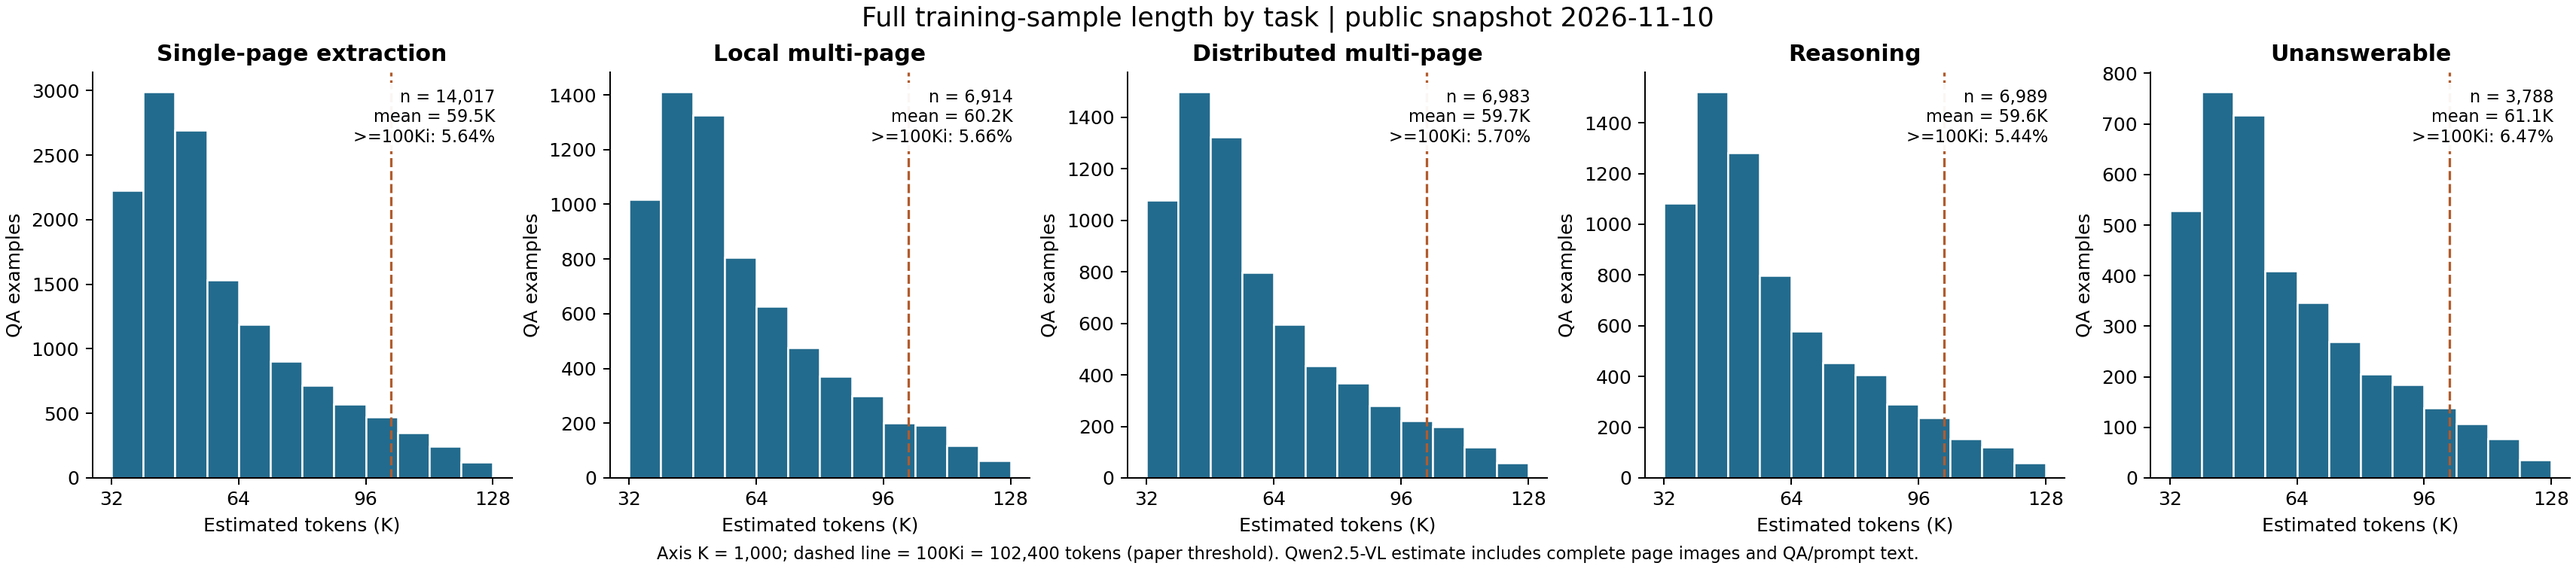
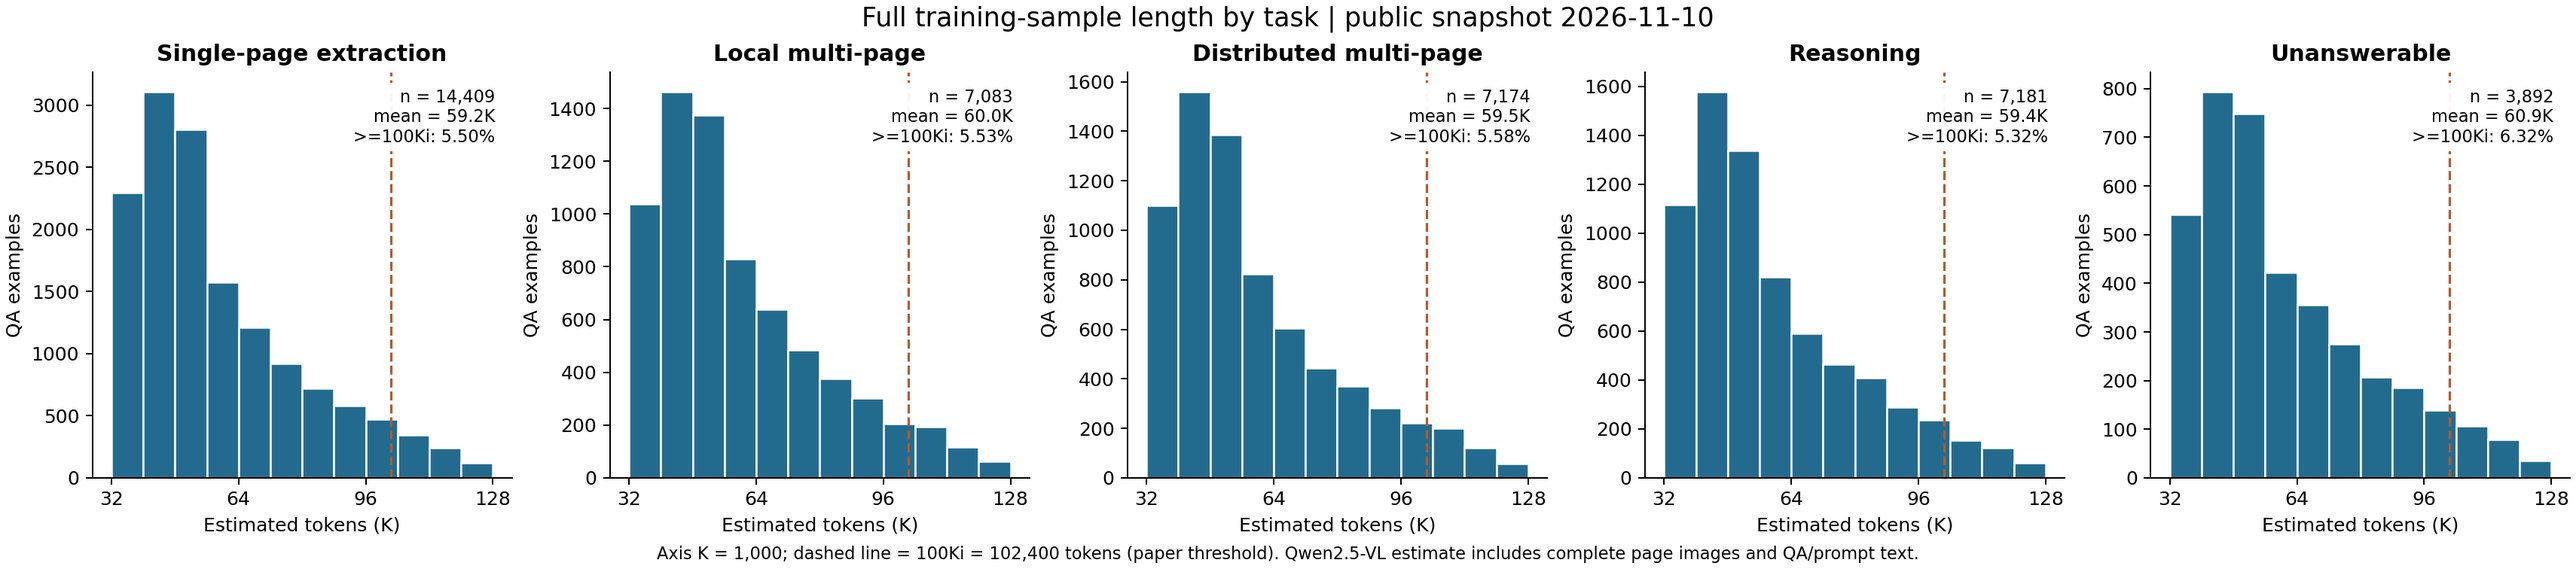
Update public corpus statistics to 2.369B measured tokens

diff --git a/docs/public_dataset.md b/docs/public_dataset.md
@@ -13,26 +13,26 @@ This page describes the admitted public snapshot identified below. It is a separ
 The manuscript defines binary prefixes (K=1024, B=2^30). Public tables use decimal K=1,000 and B=1,000,000,000; the >=100Ki statistic uses 102,400 to match the paper threshold. Exact raw counts and per-document labels are published with the dataset.
 
 <!-- PUBLIC_CORPUS_STATS_START -->
-**Public snapshot (2026-11-10): 38,691 QA examples, 7,947 source PDFs, 179,704 unique page images, and 2,314,394,982 estimated training tokens (approximately 2.314B).**
+**Public snapshot (2026-11-10): 39,739 QA examples, 8,538 source PDFs, 191,774 unique page images, and 2,368,519,161 estimated training tokens (approximately 2.369B).**
 
-[This published snapshot](https://huggingface.co/datasets/ZhaoweiWang/MMProLong-Data-Public/tree/c6a7a67b297ee03f2ec6dccee61d0159f85288e6); [latest data](https://huggingface.co/datasets/ZhaoweiWang/MMProLong-Data-Public).
+[This published snapshot](https://huggingface.co/datasets/ZhaoweiWang/MMProLong-Data-Public/tree/18ed85259ec8c1d27de0298e0e1f19c595549c0e); [latest data](https://huggingface.co/datasets/ZhaoweiWang/MMProLong-Data-Public).
 
 ### Corpus scale
 
 | Statistic | Public snapshot value |
 | --- | --- |
-| Admitted unique PDFs | 7,947 |
+| Admitted unique PDFs | 8,538 |
 | Document family | Public research papers |
-| Unique rendered page images | 179,704 |
-| Document pages: mean / median | 22.61 / 20 |
-| Document pages: range / 5th-95th percentile | 14-50 / 14-39 |
-| Admitted QA examples | 38,691 |
-| Estimated training tokens | 2,314,394,982 (2.314B) |
-| Per-QA tokens: mean / median | 59.817K / 53.283K |
+| Unique rendered page images | 191,774 |
+| Document pages: mean / median | 22.46 / 20 |
+| Document pages: range / 5th-95th percentile | 14-50 / 14-38 |
+| Admitted QA examples | 39,739 |
+| Estimated training tokens | 2,368,519,161 (2.369B) |
+| Per-QA tokens: mean / median | 59.602K / 53.273K |
 | Observed token range | 33,547-125,503 |
-| At least 100,000 tokens | 2,624 (6.78%) |
-| At least 100Ki = 102,400 tokens (paper threshold) | 2,204 (5.70%) |
-| Page references across all QA contexts | 911,047 |
+| At least 100,000 tokens | 2,633 (6.63%) |
+| At least 100Ki = 102,400 tokens (paper threshold) | 2,212 (5.57%) |
+| Page references across all QA contexts | 932,381 |
 
 ### Document sources
 
@@ -40,7 +40,7 @@ The manuscript defines binary prefixes (K=1024, B=2^30). Public tables use decim
 | --- | --- |
 | arxiv | 4,386 |
 | elife | 20 |
-| plos | 3,541 |
+| plos | 4,132 |
 
 Tokens are the stored Qwen2.5-VL serialized-sample estimate, including full page-image context and QA/prompt text. A PDF used by several questions contributes its context repeatedly to the training-token total. This is not a count of unique-text tokens or billed API tokens. Page images are physically stored once per document.
 
@@ -50,12 +50,12 @@ Tokens are the stored Qwen2.5-VL serialized-sample estimate, including full page
 
 | Task | QA | Avg. pages | Avg. K tokens | B tokens | Pages | K-token range | >=100Ki |
 | --- | --- | --- | --- | --- | --- | --- | --- |
-| `single` | 14,017 | 23.41 | 59.45 | 0.833 | 14-50 | 33.80-125.13 | 5.64% |
-| `multi_local` | 6,914 | 23.67 | 60.19 | 0.416 | 14-50 | 33.85-125.50 | 5.66% |
-| `multi_distributed` | 6,983 | 23.48 | 59.68 | 0.417 | 14-50 | 33.84-125.29 | 5.70% |
-| `reasoning` | 6,989 | 23.48 | 59.61 | 0.417 | 14-50 | 33.55-125.11 | 5.44% |
-| `unanswerable` | 3,788 | 24.07 | 61.12 | 0.232 | 14-50 | 33.79-125.09 | 6.47% |
-| **Total** | 38,691 | 23.55 | 59.82 | 2.314 | 14-50 | 33.55-125.50 | 5.70% |
+| `single` | 14,409 | 23.32 | 59.21 | 0.853 | 14-50 | 33.80-125.13 | 5.50% |
+| `multi_local` | 7,083 | 23.60 | 60.03 | 0.425 | 14-50 | 33.85-125.50 | 5.53% |
+| `multi_distributed` | 7,174 | 23.40 | 59.47 | 0.427 | 14-50 | 33.84-125.29 | 5.58% |
+| `reasoning` | 7,181 | 23.39 | 59.39 | 0.427 | 14-50 | 33.55-125.11 | 5.32% |
+| `unanswerable` | 3,892 | 23.98 | 60.88 | 0.237 | 14-50 | 33.79-125.09 | 6.32% |
+| **Total** | 39,739 | 23.46 | 59.60 | 2.369 | 14-50 | 33.55-125.50 | 5.57% |
 
 `K = 1,000`, `B = 1,000,000,000`; `100Ki = 102,400` tokens. Average pages in this table are **QA-weighted**, whereas the corpus-scale document average counts each PDF once. The two multi-page rows may be combined for comparison with the paper's broader extraction category. Unanswerable QA is an additional public-data task. Exact values, quantiles, and the combined task grouping are in [`metadata/statistics.json`](https://huggingface.co/datasets/ZhaoweiWang/MMProLong-Data-Public/blob/main/metadata/statistics.json).
 
@@ -65,16 +65,16 @@ Tokens are the stored Qwen2.5-VL serialized-sample estimate, including full page
 
 | Primary domain | Documents | Document share | QA | QA share |
 | --- | --- | --- | --- | --- |
-| Physics | 1,323 | 16.65% | 9,286 | 24.00% |
-| Computer Science | 1,250 | 15.73% | 9,159 | 23.67% |
-| Mathematics | 1,236 | 15.55% | 8,825 | 22.81% |
-| Biology | 837 | 10.53% | 1,668 | 4.31% |
-| Medicine | 773 | 9.73% | 1,769 | 4.57% |
-| Economics | 716 | 9.01% | 1,797 | 4.64% |
-| Social Science | 706 | 8.88% | 1,770 | 4.57% |
-| Engineering | 696 | 8.76% | 3,278 | 8.47% |
-| Earth Science | 388 | 4.88% | 1,036 | 2.68% |
-| Language and Literature | 13 | 0.16% | 45 | 0.12% |
+| Physics | 1,325 | 15.52% | 9,290 | 23.38% |
+| Computer Science | 1,269 | 14.86% | 9,189 | 23.12% |
+| Mathematics | 1,239 | 14.51% | 8,830 | 22.22% |
+| Biology | 983 | 11.51% | 1,917 | 4.82% |
+| Medicine | 922 | 10.80% | 2,038 | 5.13% |
+| Social Science | 807 | 9.45% | 1,951 | 4.91% |
+| Economics | 787 | 9.22% | 1,927 | 4.85% |
+| Engineering | 771 | 9.03% | 3,413 | 8.59% |
+| Earth Science | 410 | 4.80% | 1,075 | 2.71% |
+| Language and Literature | 16 | 0.19% | 51 | 0.13% |
 | Other | 9 | 0.11% | 58 | 0.15% |
 
 Document and QA shares differ because historical phases generated different numbers of questions per PDF. Domain labels describe the source PDF, not a separate topic inferred for each question.
@@ -83,21 +83,21 @@ Document and QA shares differ because historical phases generated different numb
 
 | Answer format | QA | Share |
 | --- | --- | --- |
-| Integer | 5,789 | 14.96% |
-| Float | 2,566 | 6.63% |
-| List | 13,302 | 34.38% |
-| String | 13,246 | 34.24% |
-| Unanswerable | 3,788 | 9.79% |
+| Integer | 5,962 | 15.00% |
+| Float | 2,710 | 6.82% |
+| List | 13,722 | 34.53% |
+| String | 13,453 | 33.85% |
+| Unanswerable | 3,892 | 9.79% |
 
-There are **34,903 answerable** and **3,788 unanswerable** QA examples. The observed necessary-evidence page counts are: 0 pages: 3,788, 1 pages: 17,597, 2 pages: 11,714, 3 pages: 4,401, 4 pages: 1,181, 5 pages: 6, 6 pages: 3, 7 pages: 1.
+There are **35,847 answerable** and **3,892 unanswerable** QA examples. The observed necessary-evidence page counts are: 0 pages: 3,892, 1 pages: 18,080, 2 pages: 12,043, 3 pages: 4,492, 4 pages: 1,220, 5 pages: 7, 6 pages: 3, 7 pages: 1, 8 pages: 1.
 
 <details>
 <summary>Observed QA count per source document</summary>
 
 | QA per document | Documents |
 | --- | --- |
-| 1 | 913 |
-| 2 | 4,627 |
+| 1 | 1,047 |
+| 2 | 5,084 |
 | 6 | 1 |
 | 8 | 1 |
 | 9 | 7 |
@@ -115,8 +115,8 @@ The 20-QA documents belong to the initial pilot; the two-QA limit applies to the
 | Recorded method | QA |
 | --- | --- |
 | legacy_full_document | 32,432 |
-| released_prompt_window_v1 | 3,915 |
-| document_tool_agent_v1 | 2,344 |
+| released_prompt_window_v1 | 4,569 |
+| document_tool_agent_v1 | 2,738 |
 
 ### Domain-label provenance
 
@@ -125,18 +125,18 @@ The 20-QA documents belong to the initial pilot; the two-QA limit applies to the
 | majority of full-context generator domain labels | 4,330 |
 | arXiv primary category mapping | 113 |
 | manual primary-topic classification for validated pilot batches | 9 |
-| majority of independent full-document verifier topic labels | 3,408 |
-| Crossref subject-query sampling; provisional until generator topic vote | 87 |
+| majority of independent full-document verifier topic labels | 3,994 |
+| Crossref subject-query sampling; provisional until generator topic vote | 92 |
 
 ## Document language
 
 | Estimated document language | Documents | Document share | Associated QA |
 | --- | --- | --- | --- |
-| English (`en`) | 7,942 | 99.937% | 38,651 |
-| Spanish (`es`) | 2 | 0.025% | 14 |
-| French (`fr`) | 1 | 0.013% | 2 |
-| Russian (`ru`) | 1 | 0.013% | 12 |
-| Chinese (`zh`) | 1 | 0.013% | 12 |
+| English (`en`) | 8,533 | 99.941% | 39,699 |
+| Spanish (`es`) | 2 | 0.023% | 14 |
+| French (`fr`) | 1 | 0.012% | 2 |
+| Russian (`ru`) | 1 | 0.012% | 12 |
+| Chinese (`zh`) | 1 | 0.012% | 12 |
 
 Language labels are automatic estimates from sampled embedded PDF text; non-English/uncertain predictions receive a prose-filter recheck. They are not human-verified. Method, sampled pages, scores and recheck provenance are retained with each document.
 
@@ -144,14 +144,14 @@ Language labels are automatic estimates from sampled embedded PDF text; non-Engl
 
 | Recorded generation model | Documents | QA | QA share | B training tokens |
 | --- | --- | --- | --- | --- |
-| `gpt-5.5-2026-04-24` | 2,407 | 28,524 | 73.72% | 1.745 |
-| `gpt-5.6-sol` | 5,540 | 10,167 | 26.28% | 0.570 |
+| `gpt-5.5-2026-04-24` | 2,407 | 28,524 | 71.78% | 1.745 |
+| `gpt-5.6-sol` | 6,131 | 11,215 | 28.22% | 0.624 |
 
 | Phase | Documents | QA | Maximum QA per document |
 | --- | --- | --- | --- |
 | Initial pilot (GPT-5.5) | 4 | 80 | 20 |
 | GPT-5.5 production | 2,403 | 28,444 | 12 |
-| Current GPT-5.6 production | 5,540 | 10,167 | 2 |
+| Current GPT-5.6 production | 6,131 | 11,215 | 2 |
 
 The current snapshot is a **mixed-model historical release**, not an all-GPT-5.6 corpus. Use the `model` field when a model-specific subset is required.
 

diff --git a/README.md b/README.md
@@ -40,7 +40,7 @@ Please check out the [paper](https://arxiv.org/abs/2605.13831) for the study and
 ## 📢 Latest Updates
 
 <!-- PUBLIC_CORPUS_SUMMARY_START -->
-**Public snapshot (2026-11-10): 38,691 QA examples, 7,947 source PDFs, 179,704 unique page images, and 2,314,394,982 estimated training tokens (approximately 2.314B).**
+**Public snapshot (2026-11-10): 39,739 QA examples, 8,538 source PDFs, 191,774 unique page images, and 2,368,519,161 estimated training tokens (approximately 2.369B).**
 
 [Dataset](https://huggingface.co/datasets/ZhaoweiWang/MMProLong-Data-Public) | [Statistics](docs/public_dataset.md)
 <!-- PUBLIC_CORPUS_SUMMARY_END -->
